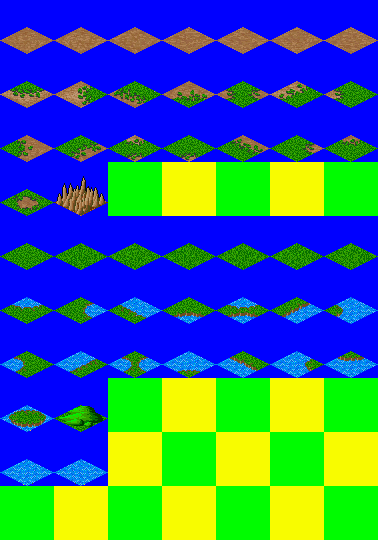
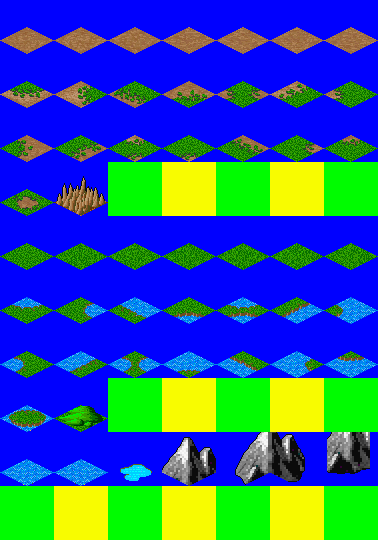
Added lots of terrain, wall sprite sets

Changed region(s): [[0.2619, 0.8, 1.0, 0.9185]]

diff --git a/maps.py b/maps.py
@@ -64,7 +64,7 @@ class WaterTerrain( SingTerrain ):
         """Pre-generate display data for this tile- phase offset."""
         return ( x + y ) % 2
     def render( self, screen, dest, view, data ):
-        view.sprites[ self.spritesheet ].render( screen, dest, self.frame + ( view.phase // 10 + data ) % 2 )
+        view.sprites[ self.spritesheet ].render( screen, dest, self.frame + ( view.phase // 5 + data ) % 2 )
 
 class WallTerrain( SingTerrain ):
     # A singleton terrain class; use these objects as tokens for maps.
@@ -147,9 +147,17 @@ OPEN_DOOR = DoorTerrain( "OPEN_DOOR", block_vision = False, block_walk = False, 
 FAKE_OPEN_DOOR = DoorTerrain( "FAKE_OPEN_DOOR", frame = 17 )
 STAIRS_UP = DoorTerrain( "STAIRS_UP", frame = 19 )
 STAIRS_DOWN = DoorTerrain( "STAIRS_DOWN", frame = 21 )
+MOUNTAIN_TOP = SingTerrain( "MOUNTAIN_TOP", block_walk = True, frame = 59 )
+MOUNTAIN_LEFT = SingTerrain( "MOUNTAIN_LEFT", block_walk = True, frame = 60 )
+MOUNTAIN_RIGHT = SingTerrain( "MOUNTAIN_RIGHT", block_walk = True, frame = 61 )
+MOUNTAIN_BOTTOM = SingTerrain( "MOUNTAIN_BOTTOM", block_walk = True, frame = 62 )
 
 BOOKSHELF = OnTheWallTerrain( "BOOKSHELF", frame = 13 )
-
+PUDDLE = SingTerrain( "PUDDLE", frame = 58 )
+SKULL = SingTerrain( "SKULL", spritesheet = SPRITE_DECOR, frame = 0 )
+BONE = SingTerrain( "BONE", spritesheet = SPRITE_DECOR, frame = 1 )
+SKELETON = SingTerrain( "SKELETON", spritesheet = SPRITE_DECOR, frame = 2 )
+HANGING_SKELETON = OnTheWallTerrain( "HANGING_SKELETON", frame = 3 )
 
 class Tile( object ):
     def __init__(self, floor=LOGROUND, wall=None, decor=None, visible=False):
@@ -223,8 +231,8 @@ class SceneView( object ):
 
         self.scene = scene
         self.seed = 1
-        self.x_off = 550
-        self.y_off = 50
+        self.x_off = 600
+        self.y_off = -200
         self.phase = 0
 
         self.map = []
@@ -311,22 +319,48 @@ class SceneView( object ):
         self.seed = ( 73 * self.seed + 101 ) % 1024
         return self.seed
 
+    # Half tile width and half tile height
+    HTW = 27
+    HTH = 13
+
+    def map_x( self, sx, sy ):
+        """Return the map x column for the given screen coordinates."""
+        return ( ( sx - self.x_off ) / self.HTW + ( sy - self.y_off ) / self.HTH ) // 2
+
+    def map_y( self, sx, sy ):
+        """Return the map y row for the given screen coordinates."""
+        return ( ( sy - self.y_off ) / self.HTH - ( sx - self.x_off ) / self.HTW ) // 2
+
     def __call__( self , screen ):
-        for x in range( self.scene.width ):
-            for y in range( self.scene.height ):
-                sx = ( x * 27 ) - ( y * 27 ) + self.x_off
-                sy = ( y * 13 ) + ( x * 13 ) + self.y_off
-                dest = pygame.Rect( sx, sy, 54, 54 )
+        screen_area = screen.get_rect()
 
-                if self.scene.map[x][y].floor:
-                    self.scene.map[x][y].floor.render( screen, dest, self, self.map[x][y].floor )
+        x_min = self.map_x( *screen_area.topleft ) - 1
+        x_max = self.map_x( *screen_area.bottomright )
+        y_min = self.map_y( *screen_area.topright ) - 1
+        y_max = self.map_y( *screen_area.bottomleft )
 
-                if self.scene.map[x][y].wall:
-                    self.scene.map[x][y].wall.prerender( screen, dest, self, self.map[x][y].wall )
-                    self.scene.map[x][y].wall.render( screen, dest, self, self.map[x][y].wall )
+        # Manhattan Diamond stuff. Not most dangerous.
+        mdx = ( x_min + x_max ) // 2
+        mdy = ( y_min + y_max ) // 2
+        mdr = max( ( x_max - x_min ) // 2 , ( y_max - y_min ) // 2 ) + 4
 
-                if self.scene.map[x][y].decor:
-                    self.scene.map[x][y].decor.render( screen, dest, self, self.map[x][y].decor )
+        dest = pygame.Rect( 0, 0, 54, 54 )
+
+        for x in range( x_min, x_max + 1 ):
+            for y in range( y_min, y_max + 1 ):
+                sx = ( x * self.HTW ) - ( y * self.HTW ) + self.x_off
+                sy = ( y * self.HTH ) + ( x * self.HTH ) + self.y_off
+                dest.topleft = (sx,sy)
+                if self.scene.on_the_map( x , y ) and screen_area.colliderect( dest ):
+                    if self.scene.map[x][y].floor:
+                        self.scene.map[x][y].floor.render( screen, dest, self, self.map[x][y].floor )
+
+                    if self.scene.map[x][y].wall:
+                        self.scene.map[x][y].wall.prerender( screen, dest, self, self.map[x][y].wall )
+                        self.scene.map[x][y].wall.render( screen, dest, self, self.map[x][y].wall )
+
+                    if self.scene.map[x][y].decor:
+                        self.scene.map[x][y].decor.render( screen, dest, self, self.map[x][y].decor )
 
         self.phase = ( self.phase + 1 ) % 600
 
@@ -340,6 +374,7 @@ if __name__=='__main__':
 
     # Set the screen size.
     screen = pygame.display.set_mode( (0,0), pygame.FULLSCREEN )
+#    screen = pygame.display.set_mode( (800,600) )
 
     myimg = image.Image( "terrain_ground_forest.png", 54, 54 )
 
@@ -349,35 +384,7 @@ if __name__=='__main__':
             if ( ev.type == pygame.MOUSEBUTTONDOWN ) or ( ev.type == pygame.QUIT ) or (ev.type == pygame.KEYDOWN):
                 break
 
-    def OldDemo():
-        seed = 1
-        for x in range( 0, 20 ):
-            for y in range( 0, 20 ):
-                sx = ( x * 27 ) - ( y * 27 ) + 550
-                sy = ( y * 13 ) + ( x * 13 ) + 50
-                seed = ( 73 * seed + 101 ) % 1024
-                myimg.render( screen, (sx,sy), 0 + seed % 7 )
-#                myimg.render( screen, (sx,sy), 28 )
-        pygame.display.flip()
-        WaitAMinit()
-#        pygame.image.save( screen , util.image_dir( "sample.png" ) )
-
-
-        frame = 0
-        while True:
-            ev = pygwrap.wait_event()
-            if ev.type == pygwrap.TIMEREVENT:
-                for x in range( 0, 20 ):
-                    for y in range( 0, 20 ):
-                        sx = ( x * 27 ) - ( y * 27 ) + 550
-                        sy = ( y * 13 ) + ( x * 13 ) + 50
-                        myimg.render( screen, (sx,sy), 56 + frame // 10 )
-                frame = ( frame + 1 ) % 20
-                pygame.display.flip()
-            elif ( ev.type == pygame.MOUSEBUTTONDOWN ) or ( ev.type == pygame.QUIT ) or (ev.type == pygame.KEYDOWN):
-                break
-
-    myscene = Scene( 50 , 50 )
+    myscene = Scene( 300 , 300 )
     terrain_list = (HIGROUND, HIGROUND, HIGROUND, HIGROUND, HIGROUND, HIGROUND, HIGROUND, HIGROUND, HIGROUND, HIGROUND, HIGROUND, HIGROUND, LOGROUND, LOGROUND, WATER )
     for x in range( myscene.width ):
         for y in range( myscene.height ):
@@ -391,13 +398,26 @@ if __name__=='__main__':
             myscene.map[x+14][y+10].wall = BASIC_WALL
     myscene.map[21][16].wall = CLOSED_DOOR
     myscene.map[16][21].wall = FAKE_OPEN_DOOR
-    myscene.map[21][15].decor = BOOKSHELF
+    myscene.map[15][21].decor = HANGING_SKELETON
+    myscene.map[23][23].decor = PUDDLE
+
+    myscene.map[25][10].wall = MOUNTAIN_TOP
+    myscene.map[25][11].wall = MOUNTAIN_LEFT
+    myscene.map[26][10].wall = MOUNTAIN_RIGHT
+    myscene.map[26][11].wall = MOUNTAIN_BOTTOM
+
 
     for x in range( 5 ):
         myscene.map[x][0].wall = BASIC_WALL
 
     mysceneview = SceneView( myscene )
 
+    mysceneview( screen )
+    t0 = pygame.time.get_ticks()
+    mysceneview( screen )
+    pygame.display.flip()
+    t1 = pygame.time.get_ticks()
+    print t1 - t0
 
     while True:
         ev = pygwrap.wait_event()

diff --git a/pygwrap.py b/pygwrap.py
@@ -27,7 +27,7 @@ BIGFONT = None
 INIT_DONE = False
 
 # The FPS the game runs at.
-FPS = 30
+FPS = 16
 
 # Use a timer to control FPS.
 TIMEREVENT = pygame.USEREVENT
